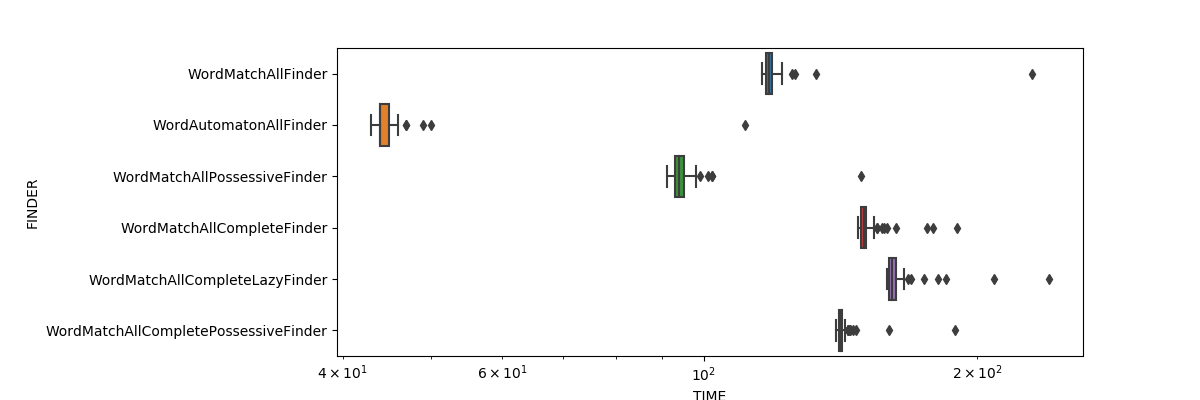
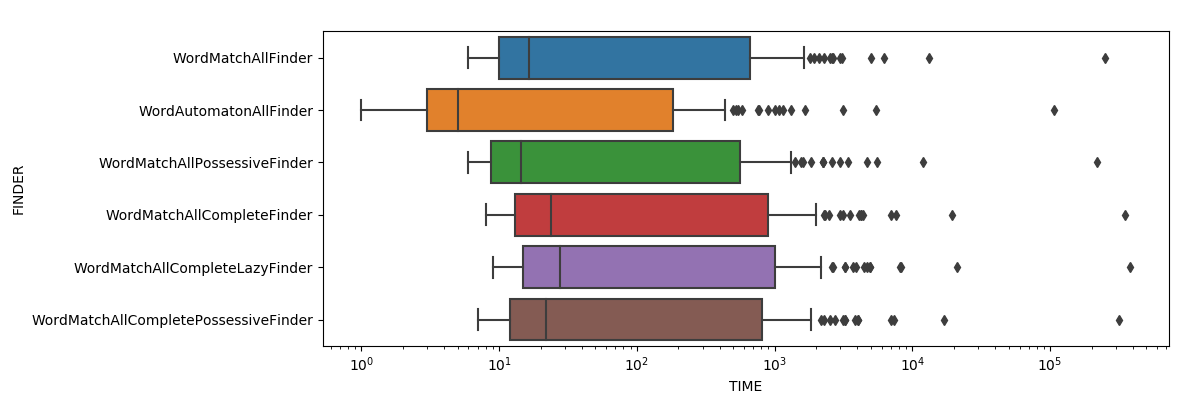
Separate the unit tests from the benchmark

diff --git a/replacer-backend/src/test/java/es/bvalero/replacer/finder/misspelling/benchmark/WordFinderTest.java b/replacer-backend/src/test/java/es/bvalero/replacer/finder/misspelling/benchmark/WordFinderTest.java
@@ -1,38 +1,15 @@
 package es.bvalero.replacer.finder.misspelling.benchmark;
 
-import es.bvalero.replacer.authentication.AuthenticationService;
-import es.bvalero.replacer.finder.misspelling.MisspellingManager;
-import es.bvalero.replacer.wikipedia.WikipediaException;
-import es.bvalero.replacer.wikipedia.WikipediaFacade;
-import es.bvalero.replacer.wikipedia.WikipediaService;
 import org.junit.Assert;
 import org.junit.Before;
 import org.junit.Test;
-import org.junit.runner.RunWith;
-import org.springframework.beans.factory.annotation.Autowired;
-import org.springframework.boot.test.context.ConfigFileApplicationContextInitializer;
-import org.springframework.test.context.ContextConfiguration;
-import org.springframework.test.context.junit4.SpringRunner;
 
-import java.io.IOException;
-import java.net.URISyntaxException;
-import java.nio.file.Files;
-import java.nio.file.Paths;
-import java.util.*;
-import java.util.stream.Stream;
+import java.util.Arrays;
+import java.util.Collection;
+import java.util.HashSet;
+import java.util.Set;
 
-@RunWith(SpringRunner.class)
-@ContextConfiguration(classes = {MisspellingManager.class, WikipediaService.class, WikipediaFacade.class, AuthenticationService.class},
-        initializers = ConfigFileApplicationContextInitializer.class)
 public class WordFinderTest {
-
-    private final static int ITERATIONS = 100000;
-
-    @Autowired
-    private MisspellingManager misspellingManager;
-
-    @Autowired
-    private WikipediaService wikipediaService;
 
     private Collection<String> words;
     private String text;
@@ -133,63 +110,6 @@ public class WordFinderTest {
     public void testFindWordMatchDotAllCompleteLazy() {
         WordMatchDotAllCompleteLazyFinder finder = new WordMatchDotAllCompleteLazyFinder(this.words);
         Assert.assertEquals(expected, finder.findWords(text));
-    }
-
-    @Test
-    // @Ignore
-    public void testBenchmark() throws IOException, WikipediaException, URISyntaxException {
-        // Load the misspellings
-        this.words = new ArrayList<>();
-        this.misspellingManager.findWikipediaMisspellings().forEach(misspelling -> {
-            String word = misspelling.getWord();
-            if (misspelling.isCaseSensitive()) {
-                this.words.add(word);
-            } else {
-                // If case-insensitive, we add to the map "[wW]ord".
-                String firstLetter = word.substring(0, 1);
-                String newWord = '[' + firstLetter + firstLetter.toUpperCase(Locale.forLanguageTag("es")) + ']' + word.substring(1);
-                this.words.add(newWord);
-            }
-        });
-
-        // Load IDs of the sample articles
-        List<Integer> sampleIds = new ArrayList<>();
-        try (Stream<String> stream = Files.lines(Paths.get(WordFinderTest.class.getResource("/benchmark/sample-articles.txt").toURI()))) {
-            stream.forEach(line -> sampleIds.add(Integer.valueOf(line.trim())));
-        }
-
-        // Load sample articles
-        Map<Integer, String> sampleContents = wikipediaService.getPagesContent(sampleIds, null);
-
-        // Load the finders
-        List<WordFinder> finders = new ArrayList<>();
-        // finders.add(new WordIndexOfFinder(this.words)); // 0.75 x WordMatchFinder
-        // finders.add(new WordMatchFinder(this.words)); // MUCH slower than the rest of finders, from WordMatchAllFinder.
-        // finders.add(new WordAutomatonFinder(this.words)); // 1 x WordMatchFinder. To run this, we need to increase the heap.
-        // finders.add(new WordMatchCompleteFinder(this.words)); // 10 x WordMatchFinder
-        // finders.add(new WordRegexAlternateFinder(this.words)); // 4 x WordMatchFinder. To run this, we need to increase the stack: -Xss3m
-        // finders.add(new WordAutomatonAlternateFinder(this.words)); // 4 x WordMatchFinder
-        // finders.add(new WordRegexAlternateCompleteFinder(this.words)); // 1 x WordMatchFinder
-        finders.add(new WordMatchAllFinder(this.words));
-        finders.add(new WordAutomatonAllFinder(this.words));
-        finders.add(new WordMatchAllPossessiveFinder(this.words));
-        finders.add(new WordMatchAllCompleteFinder(this.words));
-        finders.add(new WordMatchAllCompleteLazyFinder(this.words));
-        finders.add(new WordMatchAllCompletePossessiveFinder(this.words));
-        finders.add(new WordMatchDotAllCompleteLazyFinder(this.words));
-
-        System.out.println();
-        System.out.println("FINDER\tTIME");
-        sampleContents.forEach((key, value) -> {
-            for (WordFinder finder : finders) {
-                long start = System.currentTimeMillis();
-                for (int i = 0; i < ITERATIONS; i++) {
-                    finder.findWords(this.text);
-                }
-                long end = System.currentTimeMillis() - start;
-                System.out.println(finder.getClass().getSimpleName() + "\t" + end);
-            }
-        });
     }
 
 }

diff --git a/replacer-backend/src/test/java/es/bvalero/replacer/finder/misspelling/benchmark/WordFinderBenchmarkTest.java b/replacer-backend/src/test/java/es/bvalero/replacer/finder/misspelling/benchmark/WordFinderBenchmarkTest.java
@@ -1,0 +1,94 @@
+package es.bvalero.replacer.finder.misspelling.benchmark;
+
+import es.bvalero.replacer.authentication.AuthenticationService;
+import es.bvalero.replacer.finder.misspelling.MisspellingManager;
+import es.bvalero.replacer.wikipedia.WikipediaException;
+import es.bvalero.replacer.wikipedia.WikipediaFacade;
+import es.bvalero.replacer.wikipedia.WikipediaService;
+import org.junit.Test;
+import org.junit.runner.RunWith;
+import org.springframework.beans.factory.annotation.Autowired;
+import org.springframework.boot.test.context.ConfigFileApplicationContextInitializer;
+import org.springframework.test.context.ContextConfiguration;
+import org.springframework.test.context.junit4.SpringRunner;
+
+import java.io.IOException;
+import java.net.URISyntaxException;
+import java.nio.file.Files;
+import java.nio.file.Paths;
+import java.util.*;
+import java.util.stream.Stream;
+
+@RunWith(SpringRunner.class)
+@ContextConfiguration(classes = {MisspellingManager.class, WikipediaService.class, WikipediaFacade.class, AuthenticationService.class},
+        initializers = ConfigFileApplicationContextInitializer.class)
+public class WordFinderBenchmarkTest {
+
+    private final static int ITERATIONS = 10000;
+
+    @Autowired
+    private MisspellingManager misspellingManager;
+
+    @Autowired
+    private WikipediaService wikipediaService;
+
+    private Collection<String> words;
+
+    @Test
+    // @Ignore
+    public void testBenchmark() throws IOException, WikipediaException, URISyntaxException {
+        // Load the misspellings
+        this.words = new ArrayList<>();
+        this.misspellingManager.findWikipediaMisspellings().forEach(misspelling -> {
+            String word = misspelling.getWord();
+            if (misspelling.isCaseSensitive()) {
+                this.words.add(word);
+            } else {
+                // If case-insensitive, we add to the map "[wW]ord".
+                String firstLetter = word.substring(0, 1);
+                String newWord = '[' + firstLetter + firstLetter.toUpperCase(Locale.forLanguageTag("es")) + ']' + word.substring(1);
+                this.words.add(newWord);
+            }
+        });
+
+        // Load IDs of the sample articles
+        List<Integer> sampleIds = new ArrayList<>();
+        try (Stream<String> stream = Files.lines(Paths.get(WordFinderBenchmarkTest.class.getResource("/benchmark/sample-articles.txt").toURI()))) {
+            stream.forEach(line -> sampleIds.add(Integer.valueOf(line.trim())));
+        }
+
+        // Load sample articles
+        Map<Integer, String> sampleContents = wikipediaService.getPagesContent(sampleIds, null);
+
+        // Load the finders
+        List<WordFinder> finders = new ArrayList<>();
+        // finders.add(new WordIndexOfFinder(this.words)); // 0.75 x WordMatchFinder
+        // finders.add(new WordMatchFinder(this.words)); // MUCH slower than the rest of finders, from WordMatchAllFinder.
+        // finders.add(new WordAutomatonFinder(this.words)); // 1 x WordMatchFinder. To run this, we need to increase the heap.
+        // finders.add(new WordMatchCompleteFinder(this.words)); // 10 x WordMatchFinder
+        // finders.add(new WordRegexAlternateFinder(this.words)); // 4 x WordMatchFinder. To run this, we need to increase the stack: -Xss3m
+        // finders.add(new WordAutomatonAlternateFinder(this.words)); // 4 x WordMatchFinder
+        // finders.add(new WordRegexAlternateCompleteFinder(this.words)); // 1 x WordMatchFinder
+        finders.add(new WordMatchAllFinder(this.words));
+        finders.add(new WordAutomatonAllFinder(this.words));
+        finders.add(new WordMatchAllPossessiveFinder(this.words));
+        finders.add(new WordMatchAllCompleteFinder(this.words));
+        finders.add(new WordMatchAllCompleteLazyFinder(this.words));
+        finders.add(new WordMatchAllCompletePossessiveFinder(this.words));
+        finders.add(new WordMatchDotAllCompleteLazyFinder(this.words));
+
+        System.out.println();
+        System.out.println("FINDER\tTIME");
+        sampleContents.values().forEach(value -> {
+            for (WordFinder finder : finders) {
+                long start = System.currentTimeMillis();
+                for (int i = 0; i < ITERATIONS; i++) {
+                    finder.findWords(value);
+                }
+                long end = System.currentTimeMillis() - start;
+                System.out.println(finder.getClass().getSimpleName() + "\t" + end);
+            }
+        });
+    }
+
+}
